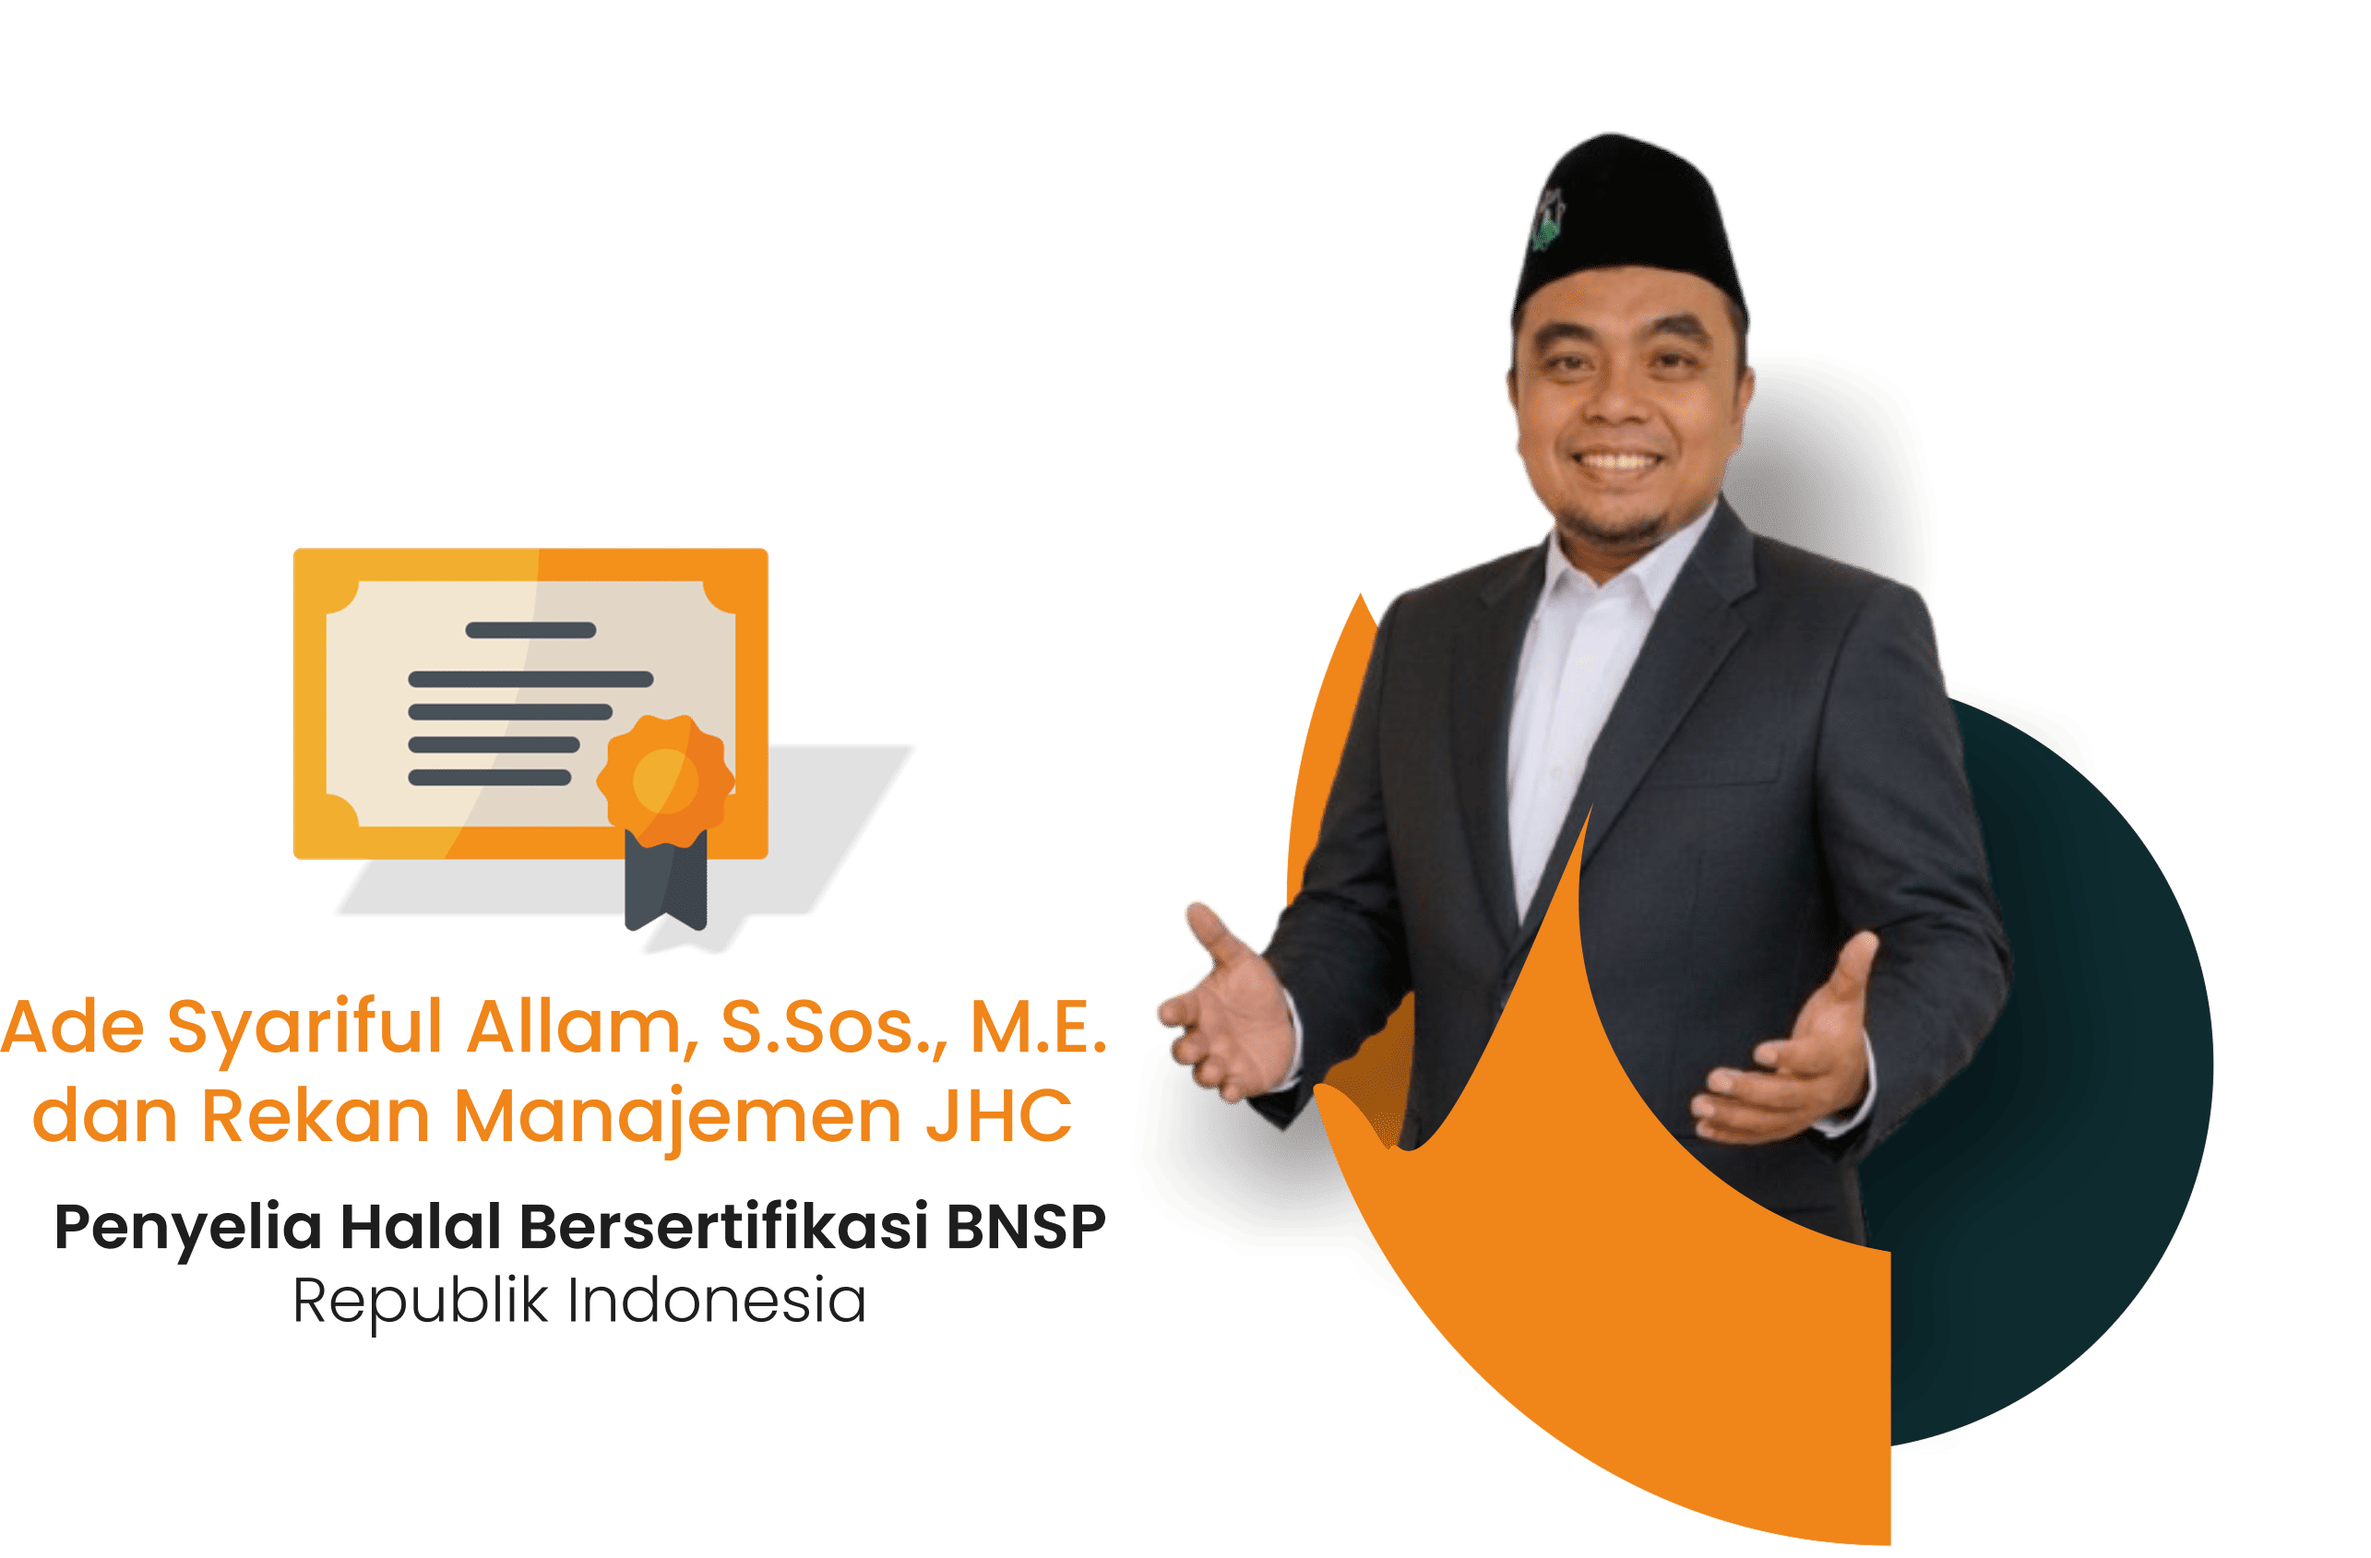
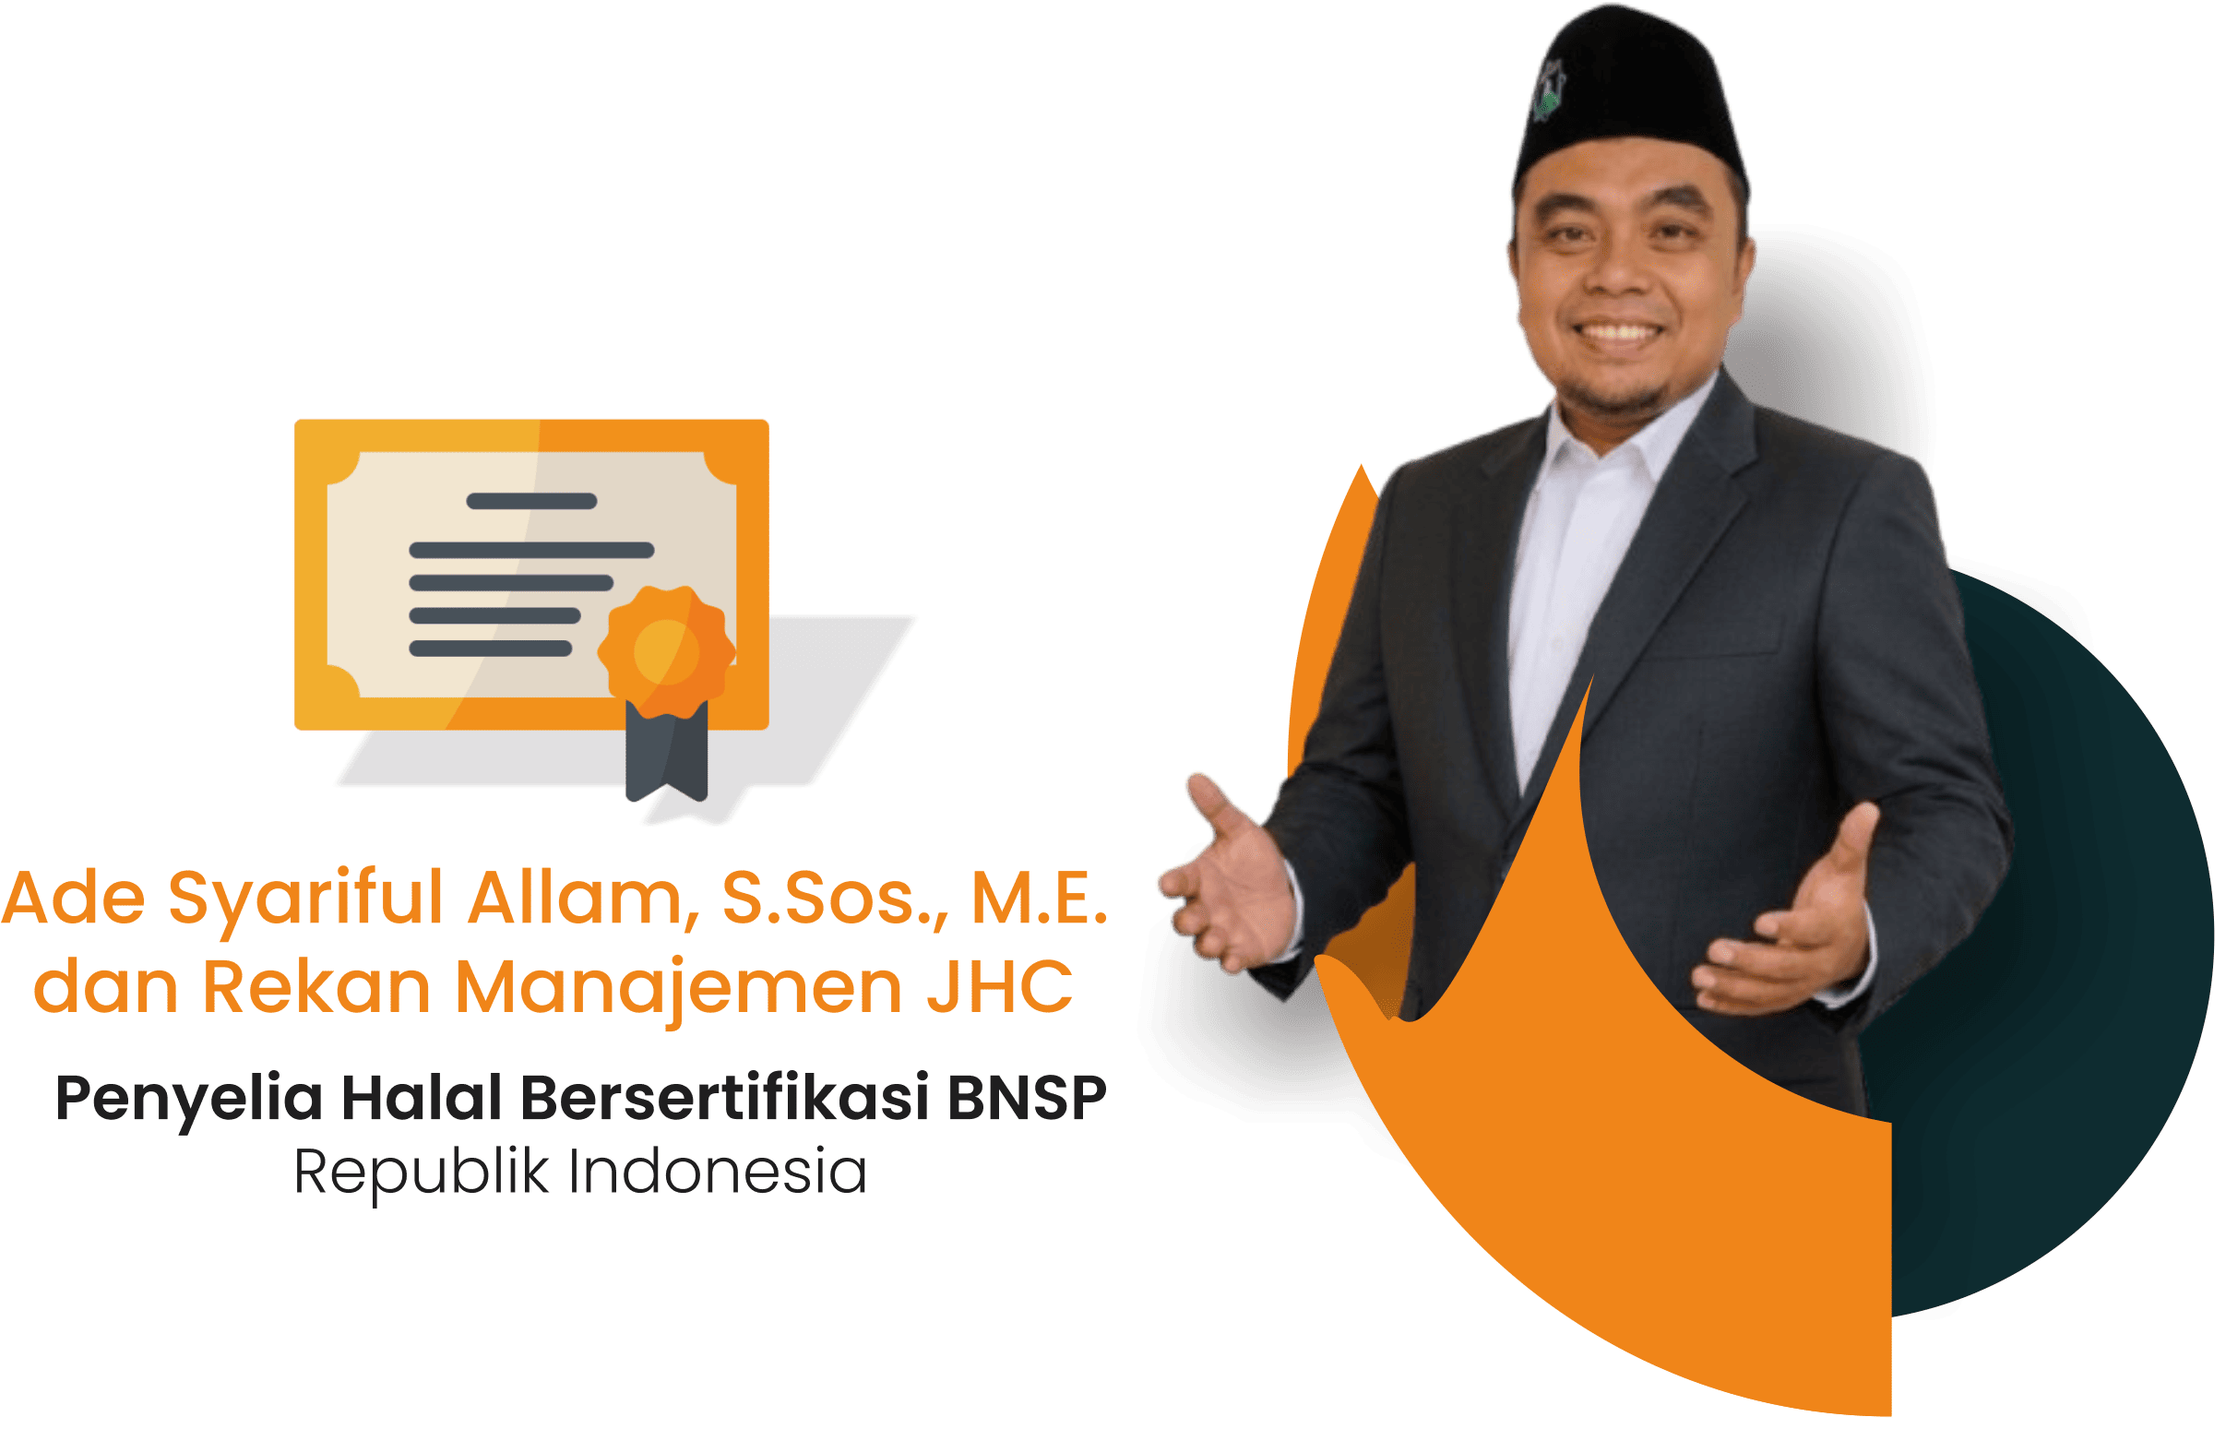
[refactor] hero image size

Changed region(s): [[0.0, 0.0, 0.9946, 0.9916]]

diff --git a/src/partials/home/Jumbotron.svelte b/src/partials/home/Jumbotron.svelte
@@ -5,7 +5,7 @@
 
 <section role="banner" id="jumbotron">
   <div class="w-full z-1 bg-jhc-light flex">
-    <div class="container max-w-6xl mx-auto pt-10 pb-6 md:pb-0">
+    <div class="container max-w-6xl mx-auto pt-10 md:pt-20 pb-6 md:pb-0">
       <div class="flex flex-col-reverse md:grid md:grid-cols-[1fr_auto] gap-10 items-center h-full px-6 md:px-0">
         <div class="flex flex-col gap-4 relative">
           <img
